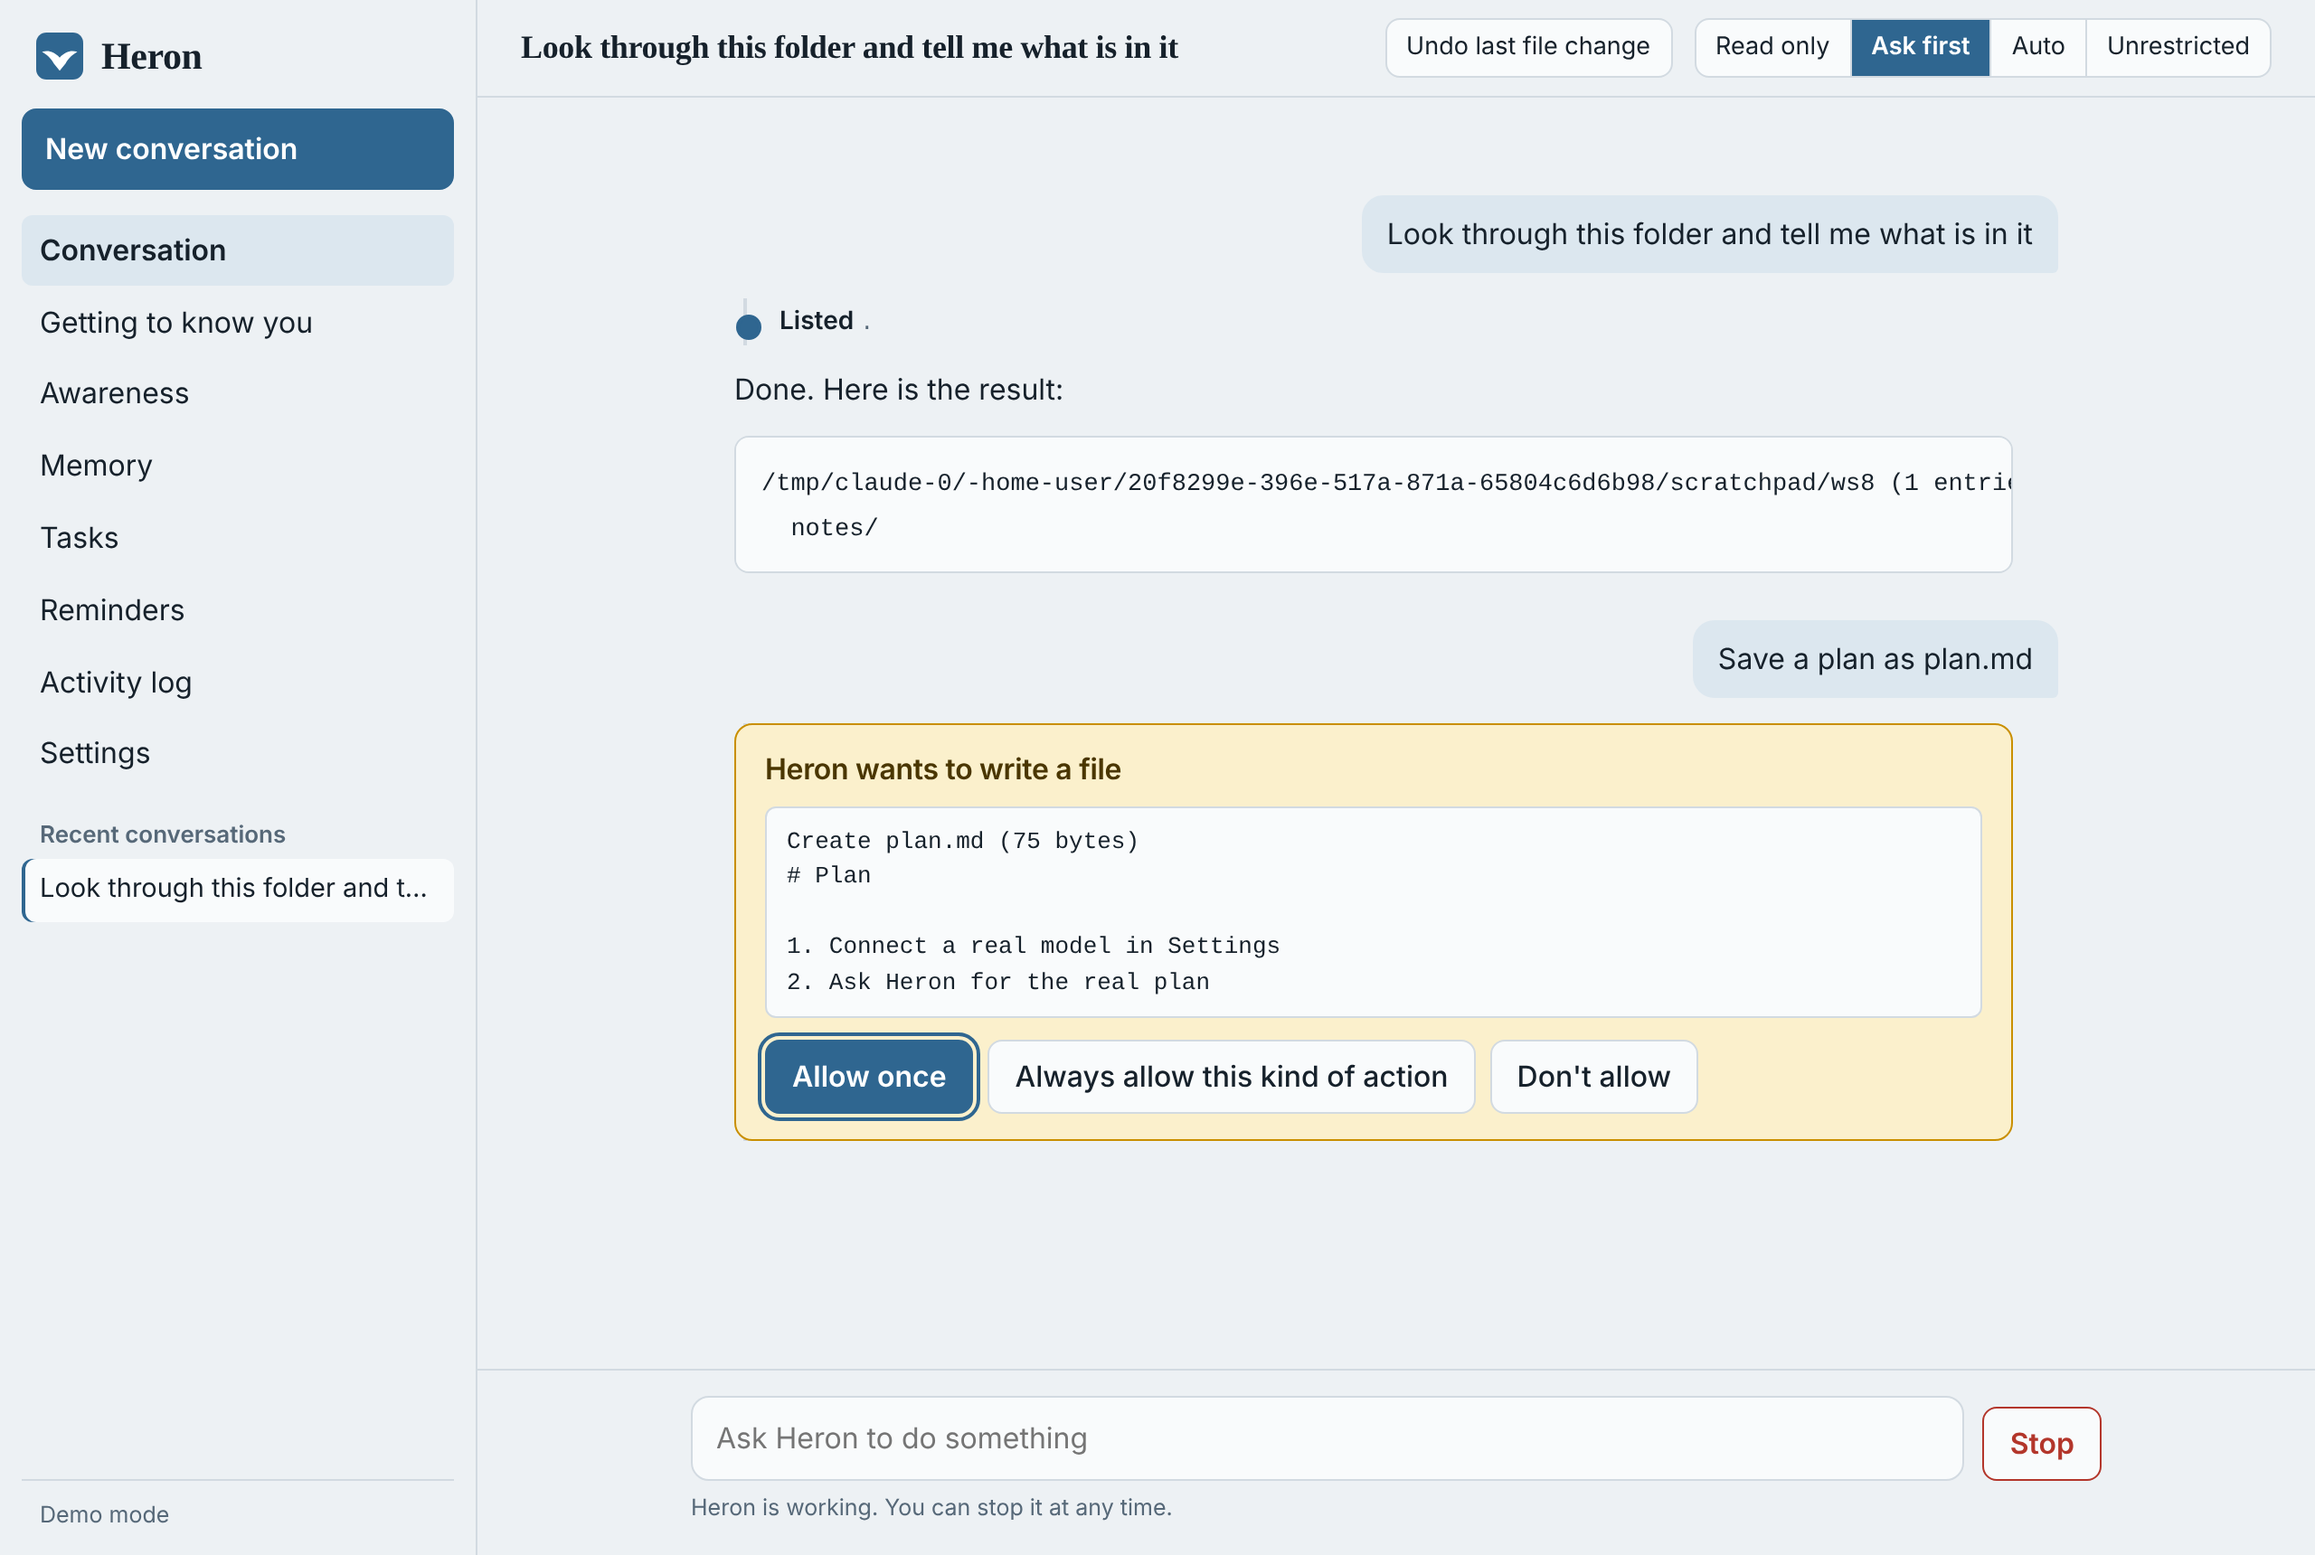
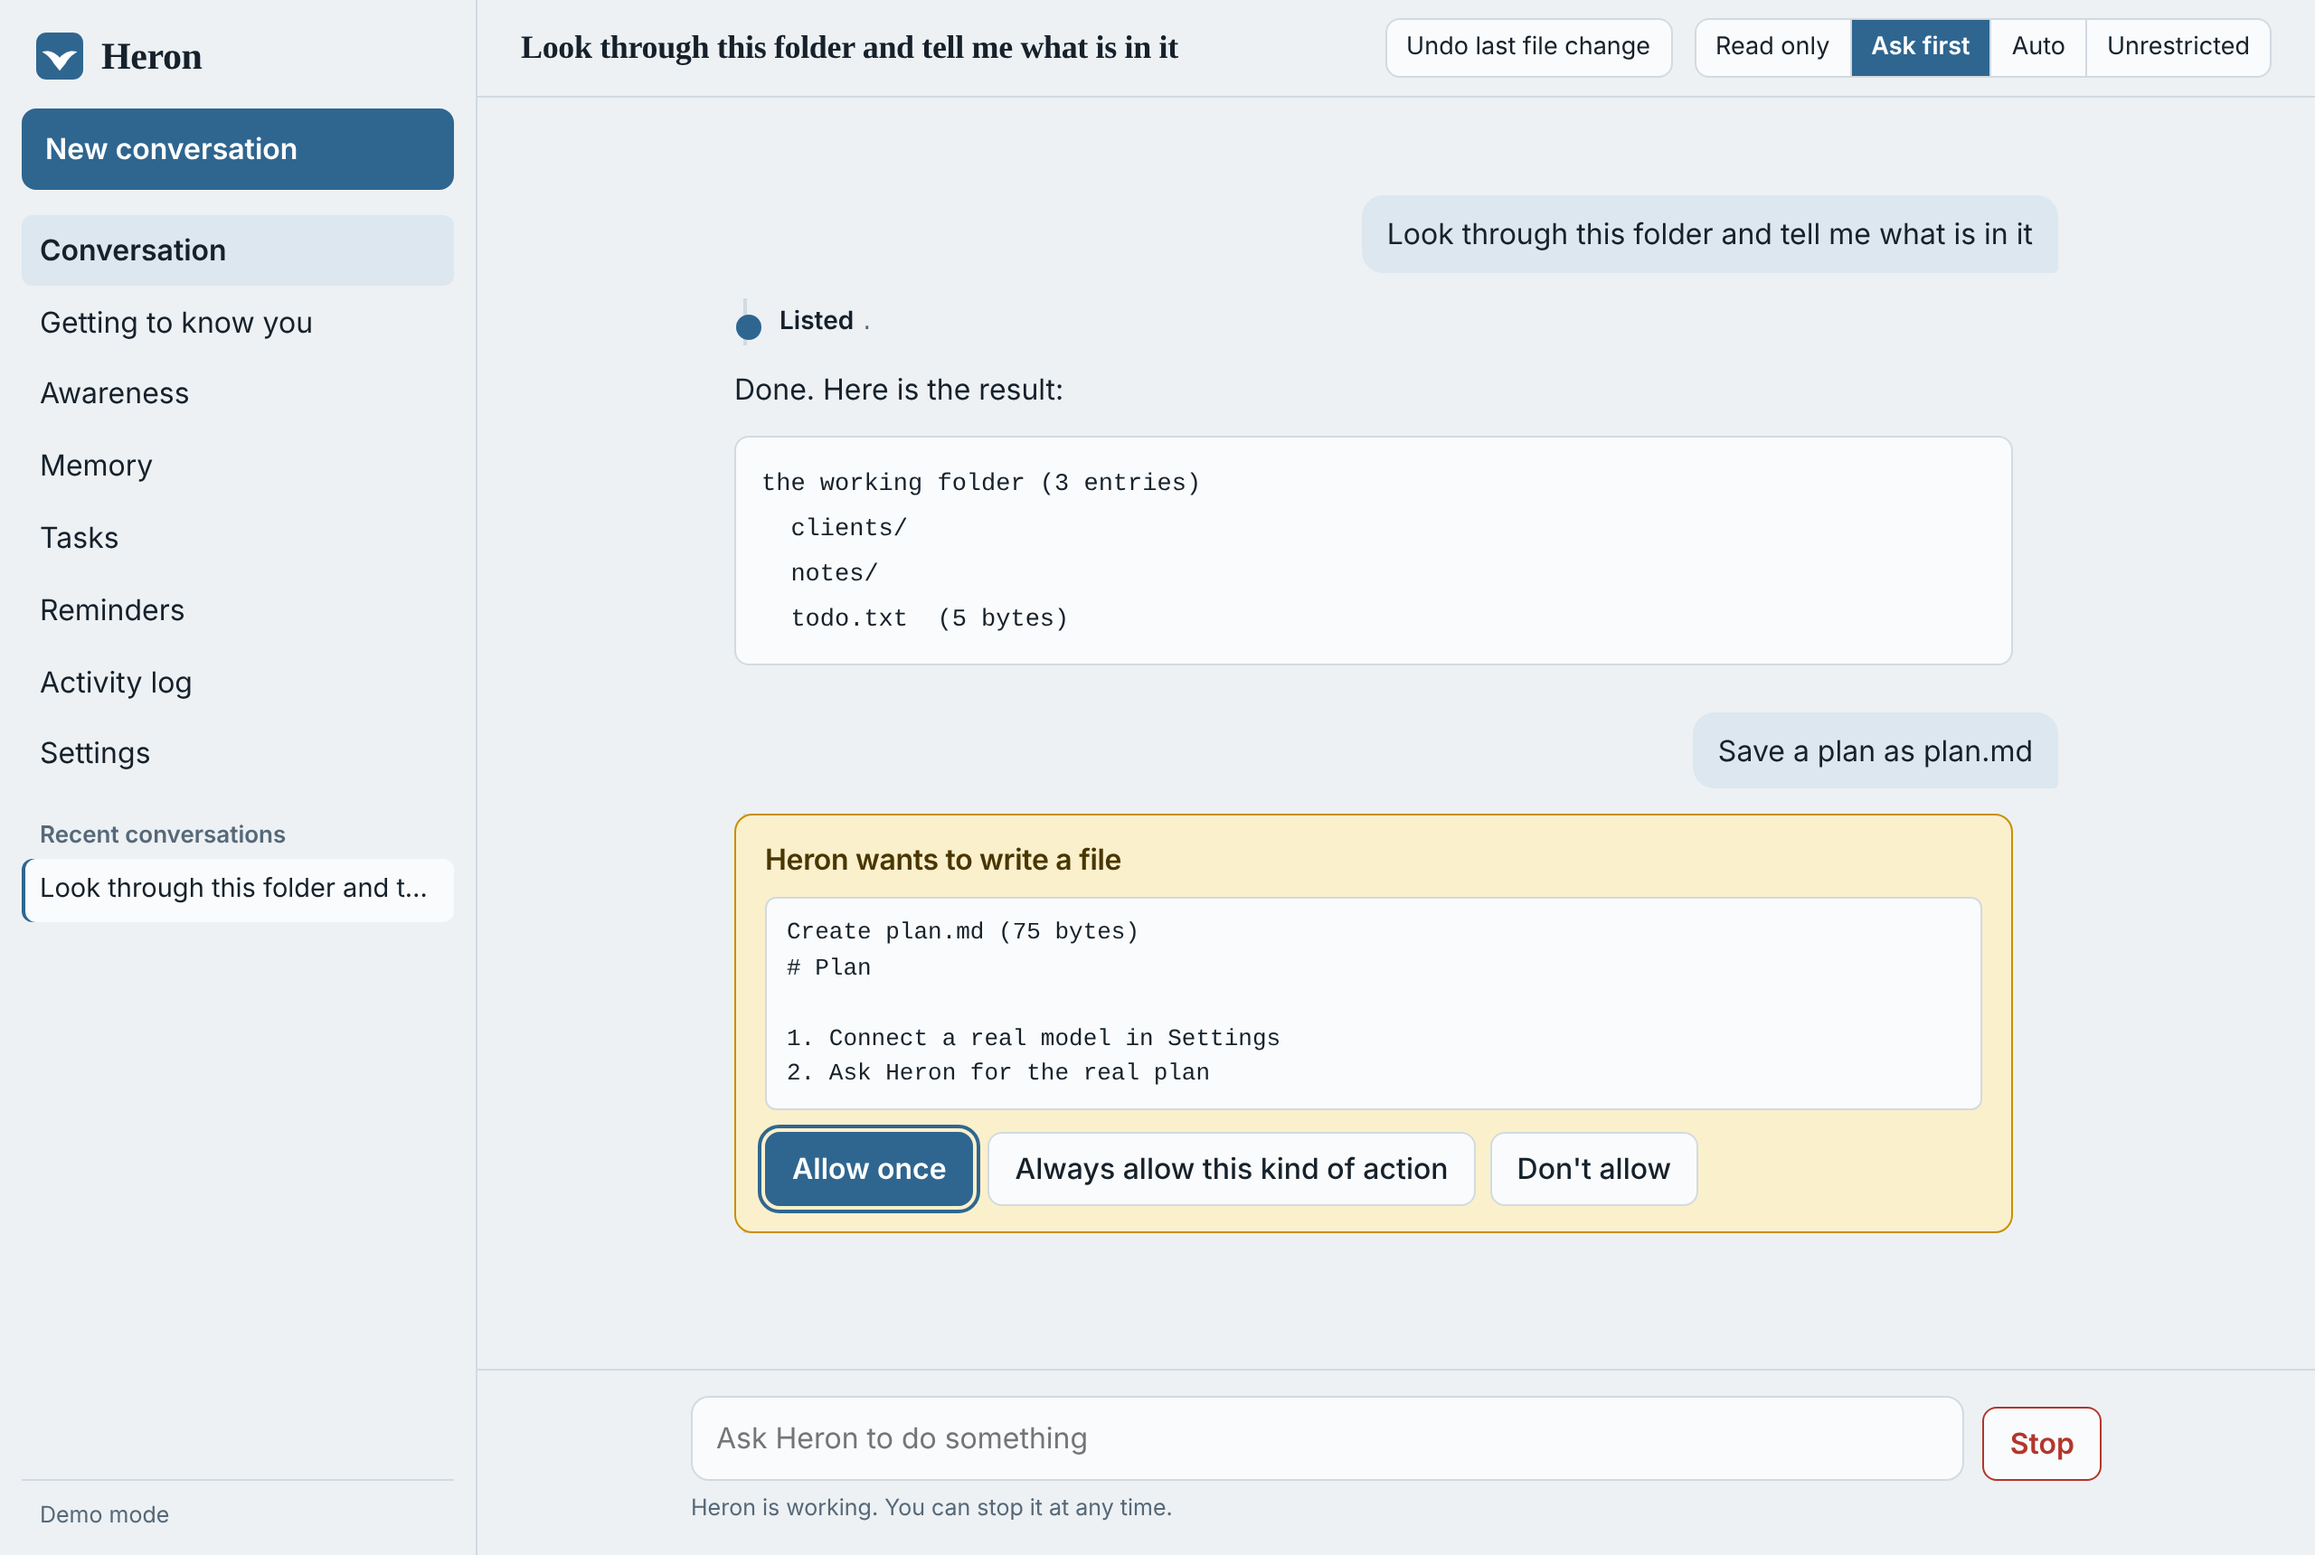
Show folder listings relative to the working folder
list_dir printed the absolute path of the working folder; show a short
relative name instead and refresh the README screenshots.

Claude-Session: https://claude.ai/code/session_01C36pofKH2btgXG4eoSs8yh

diff --git a/src/tools/fs.rs b/src/tools/fs.rs
@@ -126,7 +126,11 @@ async fn list_dir(args: &Value, ctx: &ToolCtx) -> Result<String> {
     }
     entries.sort_by(|a, b| b.0.cmp(&a.0).then(a.1.cmp(&b.1)));
     let total = entries.len();
-    let mut out = format!("{} ({} entries)\n", path.display(), total);
+    let name = match shown(&path, ctx) {
+        n if n.is_empty() => "the working folder".to_string(),
+        n => n,
+    };
+    let mut out = format!("{name} ({total} entries)\n");
     for (is_dir, name, size) in entries.into_iter().take(500) {
         if is_dir {
             out.push_str(&format!("  {name}/\n"));
